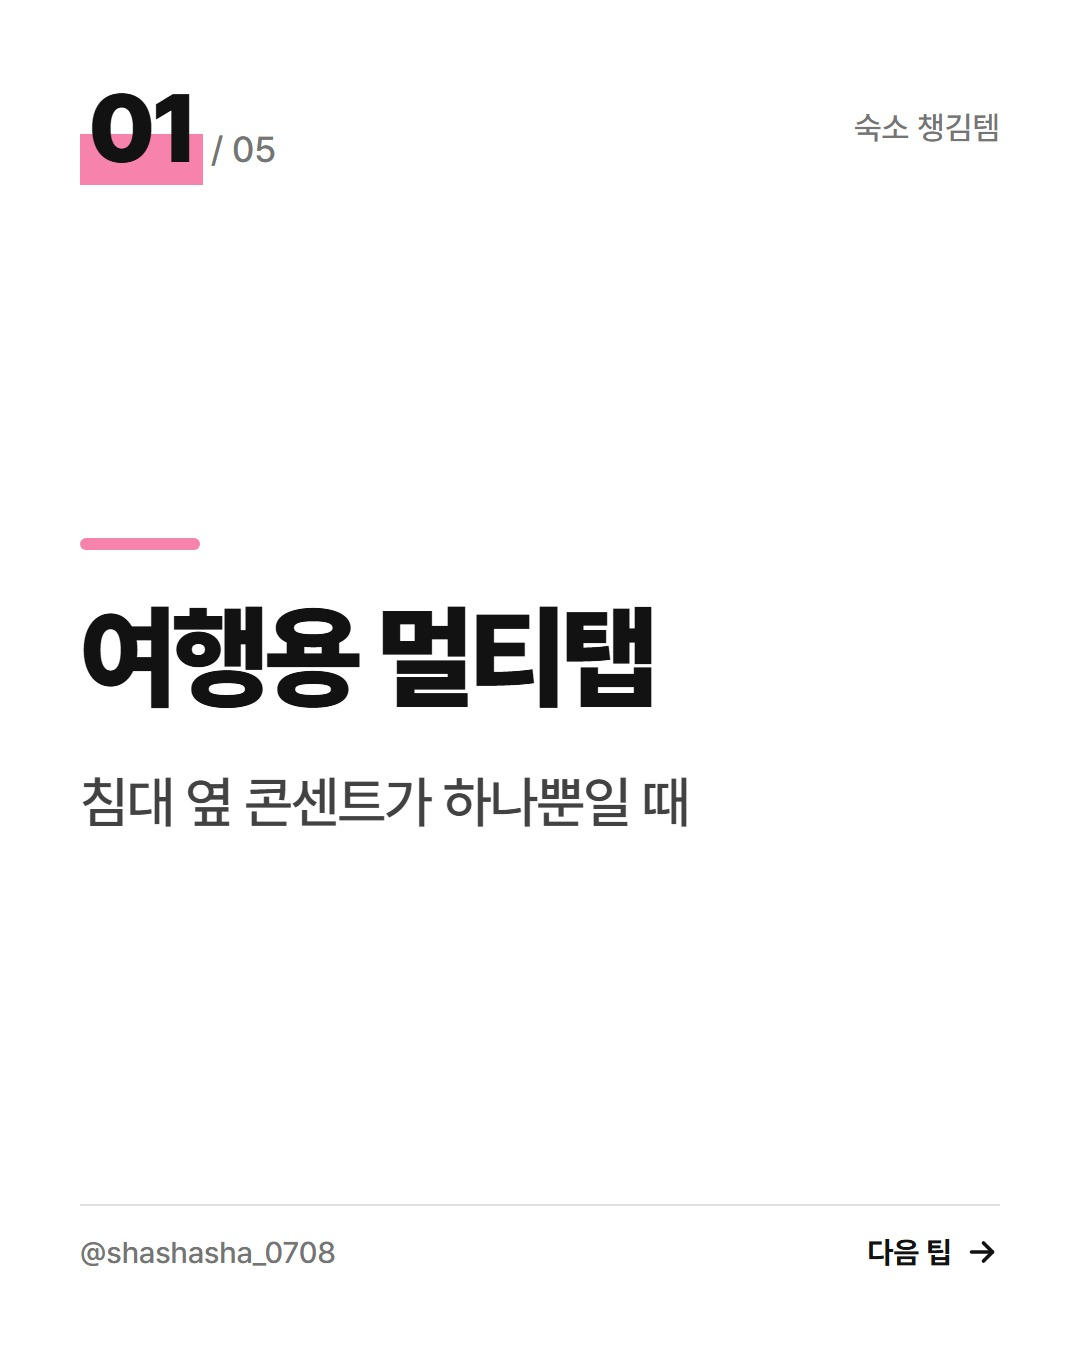
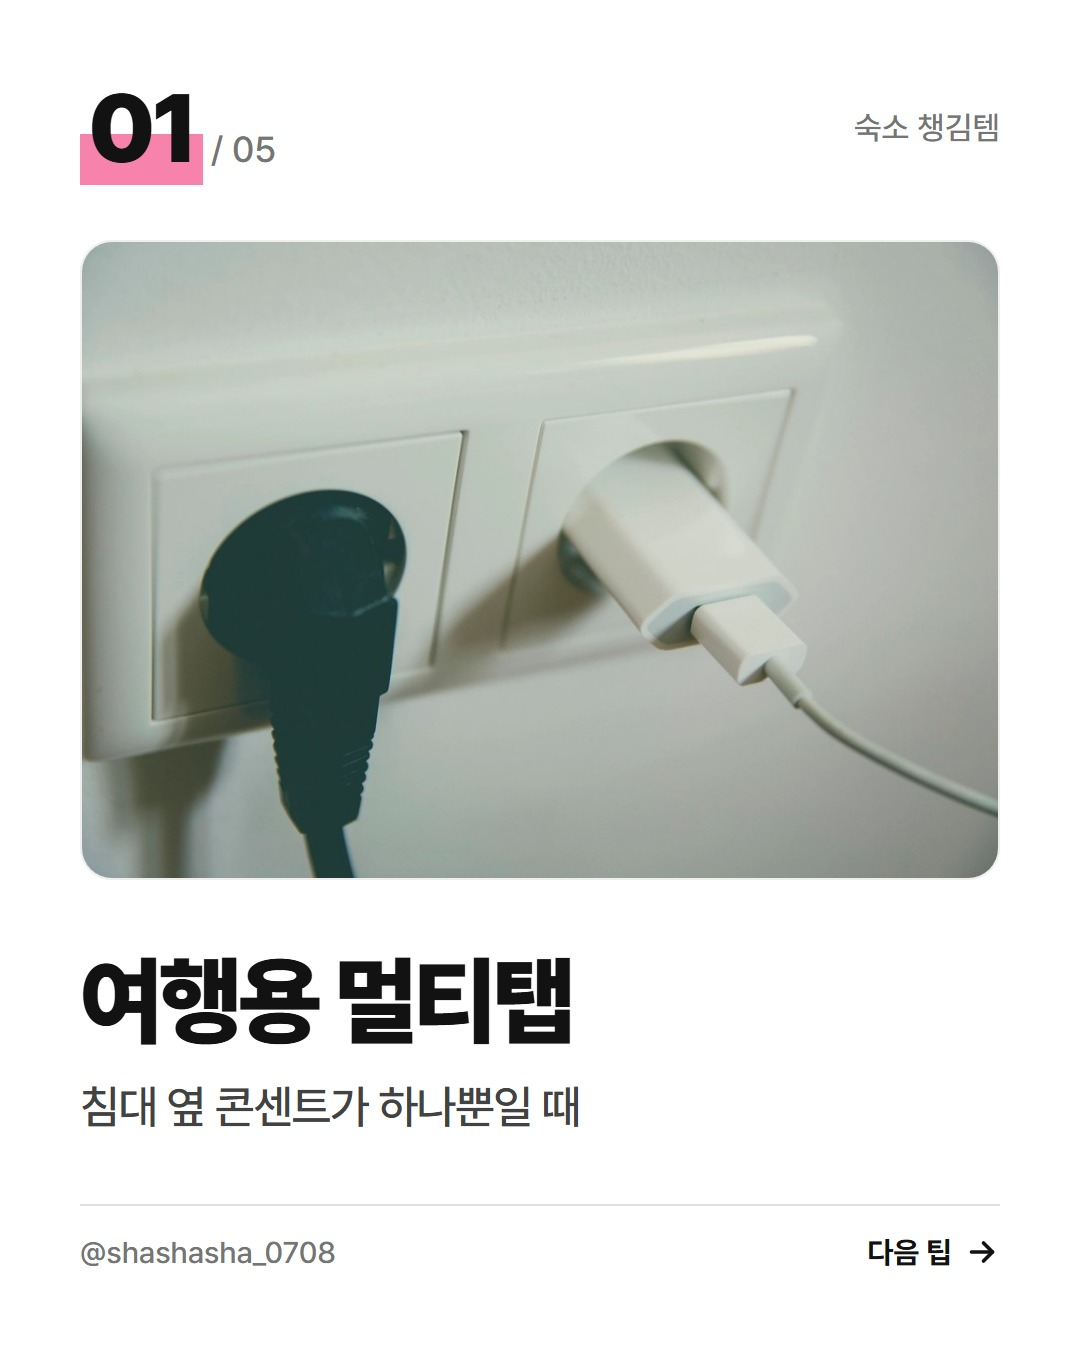
광고 없는 카드에 무료(CC0) 분위기 사진 넣기: 표지 배경 + 항목 카드 위쪽 (Vol.02)

diff --git a/src/render.py b/src/render.py
@@ -105,8 +105,34 @@ def _bottom(handle: str, right: str, note: str = "") -> str:
     )
 
 
+PHOTOS = Path(__file__).resolve().parent.parent / "data" / "photos"
+
+
+def local_photo(vol: int, key: str) -> str | None:
+    """data/photos/vol-NN/<key>.jpg (무료 CC0 분위기 사진)가 있으면 data URI로 돌려줍니다."""
+    path = PHOTOS / f"vol-{vol:02d}" / f"{key}.jpg"
+    if not path.exists():
+        return None
+    from PIL import Image
+    with Image.open(path) as img:
+        return images.to_data_uri(img.convert("RGB"), max_side=1400)
+
+
 def item_plain(topic: dict, idx: int, it: dict, handle: str) -> str:
-    """광고 없는 정보형 카드: 상품 사진·구매 링크 없이 이름과 팁만 크게."""
+    """광고 없는 정보형 카드: 구매 링크 없이 이름과 팁. 분위기 사진이 있으면 위에 크게 넣습니다."""
+    photo = local_photo(topic["vol"], f"{idx:02d}")
+    if photo:
+        return _page(
+            f'<div class="card">'
+            f'<div class="top"><div><span class="num">{idx:02d}</span><span class="of">/ 05</span></div>'
+            f'<span class="vol">{_e(topic["title1"])}</span></div>'
+            f'<div class="photo fill" style="height:640px"><img src="{photo}" alt=""></div>'
+            f'<div><h2 class="name" style="font-size:96px"><span class="fitline">{_e(it["name"])}</span></h2>'
+            f'<p class="tip" style="font-size:46px">{_e(it["tip"])}</p></div>'
+            f'{_bottom(handle, "다음 팁 " + ARROW)}</div>',
+            topic["category"],
+            light=True,
+        )
     return _page(
         f'<div class="card">'
         f'<div class="top"><div><span class="num">{idx:02d}</span><span class="of">/ 05</span></div>'
@@ -122,8 +148,15 @@ def item_plain(topic: dict, idx: int, it: dict, handle: str) -> str:
 
 
 def cover(topic: dict, handle: str, ad: bool = True) -> str:
+    photo = local_photo(topic["vol"], "cover")
+    # 배경 사진 위에 아래쪽이 진한 그라데이션을 깔아 글자가 잘 읽히게 합니다.
+    bg = (
+        f' style="background: linear-gradient(180deg, rgba(18,18,18,.35) 0%, rgba(18,18,18,.55) 35%, '
+        f'rgba(18,18,18,.92) 62%, #121212 100%), url({photo}) center top / cover no-repeat"'
+        if photo else ""
+    )
     return _page(
-        f'<div class="card">'
+        f'<div class="card"{bg}>'
         f'<div class="top"><span class="tag">{_e(topic["category"])}</span><span class="vol">Vol.{topic["vol"]:02d}</span></div>'
         f'<div style="display:flex;flex-direction:column;gap:32px">'
         f'<p class="sub">{_e(topic["sub"])}</p>'
